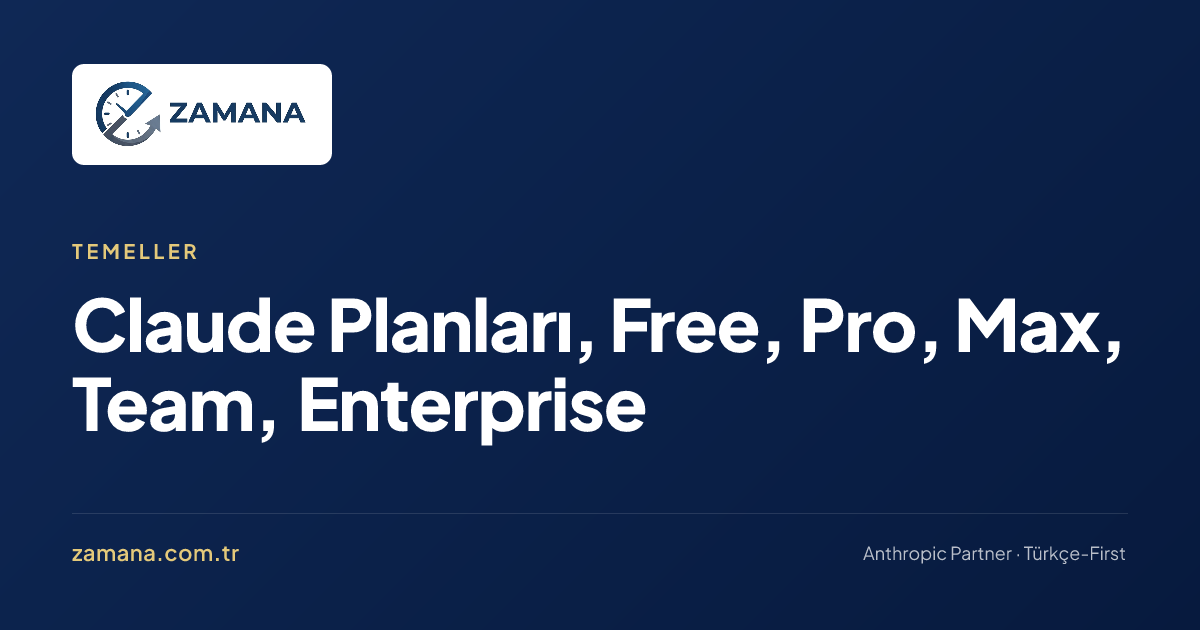
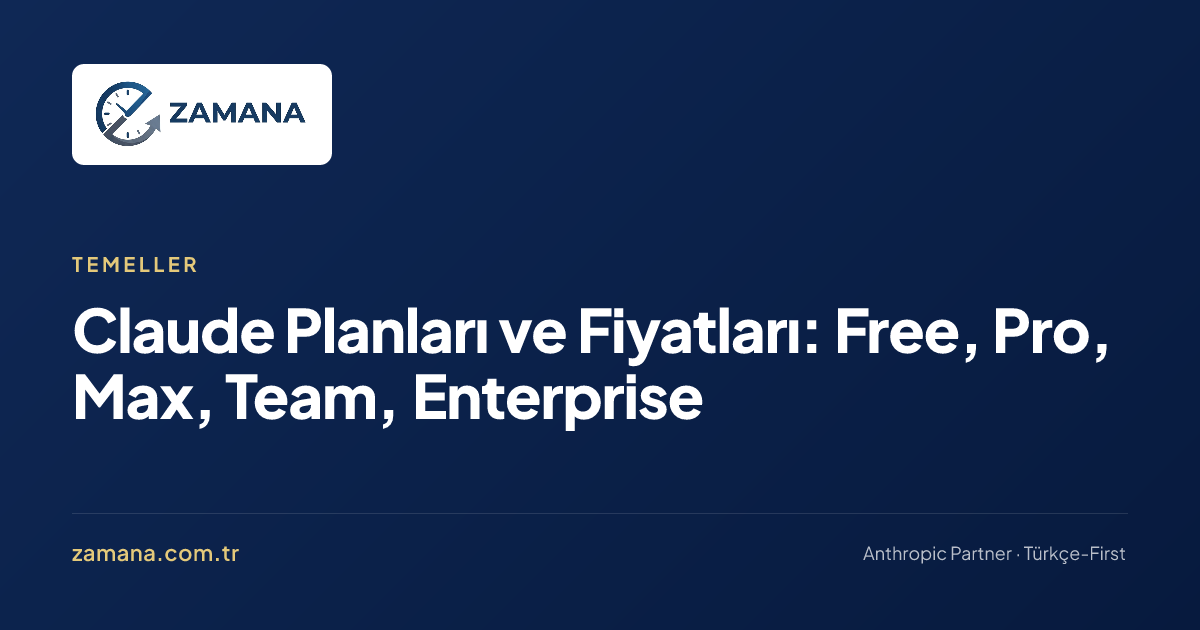
Add Türkiye'de Claude page and internal links to training pages
- New wiki page temeller/turkiyede-claude: access from Turkey, no local
  Anthropic office or official representative, buying plans directly,
  invoice/VAT/withholding and KVKK summaries, public sector note, what
  Zamana does and does not do (plans only, no API/AWS)
- Planlar page: title, seoTitle and description now target
  "paketler" and "fiyatlar" search variants (GSC opportunity)
- Contextual links from the 7 highest-impression wiki pages to
  /yapay-zeka-egitimi/ and program pages; wiki bottom CTA now links
  "kurumsal yapay zeka eğitimi"
- wiki-nav and llms.txt updated

Changed region(s): [[0.0617, 0.3921, 0.9558, 0.7238]]

diff --git a/src/data/wiki-nav.ts b/src/data/wiki-nav.ts
@@ -27,6 +27,7 @@ export const wikiNav: WikiNavSection[] = [
       { label: 'Genel Bakış', slug: 'temeller' },
       { label: 'Claude Nedir?', slug: 'temeller/claude-nedir' },
       { label: 'Anthropic ve Tarihçe', slug: 'temeller/anthropic-ve-tarihce' },
+      { label: "Türkiye'de Claude", slug: 'temeller/turkiyede-claude' },
       { label: 'Modeller', slug: 'temeller/modeller' },
       { label: 'Planlar', slug: 'temeller/planlar' },
       { label: 'Kullanım Limitleri', slug: 'temeller/kullanim-limitleri' },

diff --git a/src/content/wiki/temeller/turkiyede-claude.md b/src/content/wiki/temeller/turkiyede-claude.md
@@ -1,0 +1,87 @@
+---
+title: "Türkiye'de Claude: Erişim, Satın Alma ve Destek"
+seoTitle: "Claude Türkiye Temsilcisi Var mı? Ofis, Satın Alma"
+description: "Claude Türkiye'de kullanılabilir mi? Anthropic'in Türkiye ofisi ve resmi temsilcisi yok; satın alma doğrudan Anthropic'ten. Fatura, KDV ve KVKK özeti."
+tags:
+  - temeller
+  - turkiye
+  - satin-alma
+lastUpdated: "2026-10-06"
+---
+
+"Claude'un Türkiye temsilcisi kim?" sorusunun kısa cevabı: **yok**. Ama bu, Claude'u Türkiye'den kullanamayacağınız anlamına gelmiyor. Bu sayfa, Türkiye'deki bir şirket yöneticisinin ya da çalışanının sorduğu soruları sırayla cevaplıyor: erişim, satın alma, fatura, KVKK, kamu kurumları ve destek.
+
+> **Kısa cevap:** Anthropic'in Türkiye'de ofisi ve resmi temsilcisi ya da distribütörü yok (bu sayfanın yazıldığı 6 Ekim 2026 itibarıyla). Türkiye, Anthropic'in desteklenen ülkeler listesinde; claude.ai ve uygulamalar Türkiye'den kullanılabiliyor. Satın alma doğrudan Anthropic'ten yapılır, aracı yoktur. Zamana bir Anthropic Partner'ıdır ama temsilci, distribütör ya da bayi değildir ve abonelik satmaz.
+
+## Claude Türkiye'de kullanılabilir mi?
+
+Evet. Türkiye, Anthropic'in claude.ai için yayımladığı [desteklenen ülkeler](https://www.anthropic.com/supported-countries) listesinde. Web, masaüstü uygulaması (Windows ve macOS) ve iOS ile Android uygulamaları Türkiye'den çalışır. Ücretsiz planla başlayıp ücretli plana geçebilirsiniz; planlar için [Claude Planları](/wiki/temeller/planlar/) sayfasına bakın.
+
+Türkçe yazışma ve profesyonel metin üretiminde Claude'un performansı iyidir. Dört farklı dil kaydında (resmi yazışma, teknik, hukuki, yaratıcı) yan yana örnekler için [Claude Türkçe Performansı](/wiki/temeller/turkce-performansi/) sayfasına bakın. Arayüz dili seçeneklerinin güncel listesi sık değişebilir; bunu uygulamadaki ayarlardan kontrol edin.
+
+## Anthropic'in Türkiye ofisi ya da temsilcisi var mı?
+
+Hayır. Anthropic'in Türkiye'de ofisi yok, Türkiye'de resmi temsilcisi ya da distribütörü de yok. Yerel satış ya da yerel destek hattı bulunmuyor; hesap, fatura ve teknik sorular Anthropic'in kendi kanallarından (claude.ai ve yardım merkezi) çözülüyor. Şirketin genel yapısı için [Anthropic ve Claude'un Tarihçesi](/wiki/temeller/anthropic-ve-tarihce/) sayfasına bakabilirsiniz.
+
+**Bir uyarı:** "Claude Türkiye temsilcisiyiz" diyen biriyle karşılaşırsanız, Anthropic'in yetkilendirdiği resmi bir partner ya da yetkili kanal olup olmadığını yazılı sorun. Abonelik, "özel fiyat" ya da "kurumsal paket" adı altında ödeme istenen durumlarda, ödemenin Anthropic'e mi yoksa üçüncü bir tarafa mı gittiğine bakın.
+## Türkiye'den nasıl satın alınır?
+
+**Bireysel planlar (Pro, Max):** claude.ai üzerinden ya da mobil uygulamadan, kartla satın alınır. ABD fiyatları şöyledir: Pro 20 dolar, Max 5x 100 dolar, Max 20x 200 dolar (aylık). Mobil mağaza fiyatlarını bu sayfada yazmıyoruz, çünkü Anthropic'in bu konuda yayımlanmış bir fiyat sayfası yok; satın alma ekranında gördüğünüz tutar geçerlidir.
+
+**Team ve Enterprise:** Team için yönetici hesabıyla en az 2 koltuk gerekir ve plan self-serve açılır. Enterprise için self-serve alımda en az 20 koltuk, yıllık taahhüt ve kullanıma göre ek ücret söz konusudur; daha büyük ya da özel şartlı alımlarda Anthropic'in satış ekibiyle görüşülür. Ayrıntı için [Takım ve Admin](/wiki/temeller/takim-ve-admin/) ve [Planlar](/wiki/temeller/planlar/) sayfalarına bakın.
+
+**Ödeme:** Fiyatlar dolarla gösterilir. Türk lirasıyla ödeme ya da Türkiye'ye özel TL fiyat listesi bulamadık. Kartınızın yurt dışı e-ticarete açık olması gerekir; banka dolar tutarını kendi kuruyla liraya çevirir. Şirket aboneliklerinde çoğu ekip bu yüzden kurumsal kredi kartı kullanır. Kullanım kotaları için [Kullanım Limitleri](/wiki/temeller/kullanim-limitleri/) sayfasına bakın.
+
+## Fatura, KDV ve stopaj
+
+Anthropic Türkiye'de yerleşik değil; yani fatura yurt dışından gelir. Pratikte bilmeniz gerekenler:
+
+- **KDV:** Yurt dışından alınan hizmette KDV'yi alıcı, sorumlu sıfatıyla beyan eder (2 No'lu KDV beyannamesi, oran %20) ve genelde aynı dönemde indirim konusu yapar; net yük çoğu zaman sıfıra yakındır. Web ödemesinde Türkiye faturalama adresiyle %20 KDV'nin ayrıca eklendiğini bildiren ikincil kaynaklar var, ama Anthropic'in Türkiye'ye özel bir KDV sayfası yok. İlk faturanıza bakın ve mali müşavirinizle teyit edin.
+- **Stopaj:** Standart abonelikte stopaj genelde çıkmaz, ancak bulut hizmetleri için farklı sonuçlar veren özelgeler var. Claude aboneliğine özel bir özelge bulamadık. Bu nedenle kesin hüküm değil, mali müşavir kontrolü gerekir.
+
+Tam çerçeve için [Fatura, KDV ve Türkiye'de Muhasebeleştirme](/wiki/temeller/fatura-ve-kdv/) sayfasına bakın. Bu sayfa vergi danışmanlığı değildir.
+
+## KVKK ve veri
+
+Anthropic ABD merkezli olduğu için Claude'a kişisel veri girdiğinizde bu, KVKK anlamında yurt dışına aktarım sayılır. Kişisel veri girmiyorsanız (anonim iş metni, genel araştırma) bu konu sizi ilgilendirmez.
+
+Girecekseniz, pratikte Kurul'un ilan ettiği standart sözleşme yolu gündeme gelir; imzalar tamamlandıktan sonra 5 iş günü içinde Kurum'a bildirim gerekir. Çalışanlardan açık rıza almak, düzenli ve günlük Claude kullanımı için güvenli bir dayanak sayılmaz. Ayrıntılı anlatım ve Anthropic tarafında bilinmeyenler için [Gizlilik ve KVKK](/wiki/temeller/gizlilik-kvkk/) sayfasındaki "Yurt Dışına Aktarım" bölümüne bakın. Hukuki görüş yerine geçmez.
+
+## Kamu kurumları
+
+Kamu kurumları için tablo daha zor. Yurt dışındaki bir firmadan doğrudan abonelik almak çoğu kurum için satın alma mevzuatı açısından mümkün olmuyor ve şu an kamu için Anthropic'in yetkili bir Türkiye satış kanalı yok. Ayrıca kamu verisinde, Bilgi ve İletişim Güvenliği Tedbirleri Genelgesi (2019/12) gibi düzenlemelerin yurt dışı bulut kullanımına getirdiği kısıtlar devreye girebilir. Kapsamı kurumdan kuruma değişir; bilgi işlem ve hukuk biriminize danışın.
+
+Kamu kurumunda çalışıyorsanız durumunuzu bize yazın: [İletişim](/iletisim/). Bu alanda gelişme olursa bu sayfayı güncelleyeceğiz.
+
+## Zamana ne yapar, ne yapmaz?
+
+Zamana, Anthropic'in Partner'ıdır ve Türkiye'deki ekiplere şunlarda yardım eder:
+
+- Claude eğitimi: sizin işinize ve rollerinize göre, Türkçe
+- Kurulum ve CLAUDE.md gibi kurumsal uyarlama
+- Şirket içi kullanım politikası
+- KVKK açısından hangi verinin girilip girilmeyeceği konusunda rehberlik (hukuki görüş değildir)
+
+Zamana'nın **yapmadıkları:** Claude aboneliği satmaz, Anthropic adına fatura kesmez, Türkiye temsilcisi, distribütör ya da bayi değildir. Aboneliğinizi her zaman doğrudan Anthropic'ten alırsınız. Programlar için [Yapay Zeka Eğitimi](/yapay-zeka-egitimi/) ve [Programlar](/programlar/) sayfalarına bakın. Şirket içi kural yazımı için [Şirket İçi Politika](/wiki/temeller/sirket-ici-politika/) sayfası da yardımcı olur.
+
+## Sık sorulan sorular
+
+### Claude'u Türk lirasıyla alabilir miyim?
+
+Türk lirası fiyat ya da TL ödeme seçeneği bulamadık. Fiyatlar dolarla gösterilir; kartınız dolar üzerinden çekilir ve bankanız kendi kuruyla çevirir. Mobil uygulamadan alıyorsanız mağazanın gösterdiği tutar esastır.
+
+### Türkçe destek var mı?
+
+Claude'un kendisi Türkçe yazışmayı iyi yapar. Anthropic'in Türkçe müşteri destek hattı ya da yerel destek ekibi yok; destek yardım merkezi ve hesap üzerinden yürür. Şirket içi benimseme desteği için eğitim seçeneklerine bakabilirsiniz.
+
+### Şirket faturası alabilir miyim?
+
+Anthropic ödeme sonrası fatura düzenler ve hesap ayarlarından şirket bilgilerinizi ve (konuma göre sunulan) vergi numarası alanını girebilirsiniz. Faturanın Türkiye'deki muhasebe işlemesi için [Fatura ve KDV](/wiki/temeller/fatura-ve-kdv/) sayfasına, nihai kararı için mali müşavirinize başvurun.
+
+### Zamana Claude satıyor mu?
+
+Hayır. Zamana abonelik satmaz, temsilci ya da bayi değildir. Eğitim, kurulum ve kurumsal uyarlama desteği verir. Aboneliği Anthropic'ten, kendi hesabınızla alırsınız.
+
+### Türkiye'de "Claude temsilcisi" olduğunu söyleyen biri güvenilir mi?
+
+Anthropic'in Türkiye'de resmi temsilcisi yok. Böyle bir iddia duyarsanız, kişinin Anthropic'in resmi partner ya da yetkili kanalı olup olmadığını yazılı sorun ve ödemeyi hiçbir zaman Anthropic dışında bir tarafa yapmayın.

diff --git a/src/content/wiki/temeller/anthropic-ve-tarihce.md b/src/content/wiki/temeller/anthropic-ve-tarihce.md
@@ -5,7 +5,7 @@ tags:
   - temeller
   - anthropic
   - tarihce
-lastUpdated: "2026-10-05"
+lastUpdated: "2026-10-06"
 ---
 
 **Anthropic, Claude'u yapan şirkettir.** Kurumsal bir aracı sözleşmeye bağlamadan önce arkasındaki şirketi tanımak doğaldır. Bu sayfa Anthropic'i, kuruluşunu, değerlerini ve Claude'un model tarihçesini özetler.
@@ -114,7 +114,9 @@ Bilinen çizgiler:
 
 Anthropic'in **Türkiye'de doğrudan ofisi yoktur.** Lokalize satış, teknik destek veya hukuki temsilci bulunmaz. Türkiye, Claude.ai ve API için desteklenen ülkeler arasındadır; kullanıcılar Claude'u doğrudan claude.ai üzerinden kullanır. Türkçe iş bağlamında uyum, faturalandırma ve KVKK tarafı ayrıca yönetilmesi gereken konulardır.
 
-[Türkçe Performansı](/wiki/temeller/turkce-performansi/) sayfası dil tarafının kalitesini, [Gizlilik ve KVKK](/wiki/temeller/gizlilik-kvkk/) sayfası Türkiye'deki yasal duruma uyum tarafını anlatır.
+Yerel destek olmadığı için ekiplerin Claude'a geçişi çoğunlukla kendi başına kalır. Bu boşluğu Türkçe, iş odaklı ve sizin şirketinizin süreçleri üzerinden dolduran bir [şirket içi Claude eğitimi](/yapay-zeka-egitimi/) seçeneğimiz var.
+
+[Türkçe Performansı](/wiki/temeller/turkce-performansi/) sayfası dil tarafının kalitesini, [Gizlilik ve KVKK](/wiki/temeller/gizlilik-kvkk/) sayfası Türkiye'deki yasal duruma uyum tarafını anlatır. Erişim, satın alma, fatura ve destek sorularının tek sayfalık cevabı için [Türkiye'de Claude](/wiki/temeller/turkiyede-claude/) sayfasına bakın.
 
 ## Anthropic Neden Önemli?
 

diff --git a/src/content/wiki/temeller/planlar.md b/src/content/wiki/temeller/planlar.md
@@ -1,6 +1,7 @@
 ---
-title: Claude Planları, Free, Pro, Max, Team, Enterprise
-description: Claude'un beş planı Free, Pro, Max, Team ve Enterprise arasındaki farklar. İş kullanımı için hangi plan doğru, hangi durumda hangi plan önerilir.
+title: "Claude Planları ve Fiyatları: Free, Pro, Max, Team, Enterprise"
+seoTitle: "Claude Planları, Paketleri ve Fiyatları 2026"
+description: "Claude paketleri ve fiyatları 2026: Free, Pro, Max, Team ve Enterprise farkları, kullanım limitleri ve iş kullanımı için hangi planın doğru olduğu."
 tags:
   - temeller
   - planlar
@@ -184,6 +185,8 @@ Tipik bir şirketin planı zamanla doğal bir şekilde evrilir:
 - Enterprise'a geçiş gündeme gelir
 
 Plan seçimi ticari büyüklüğe ve kurumsal olgunluğa göre aşamalı olarak ilerler, hep birden büyük bir plana atlamak gereksizdir.
+
+> **Not:** Plan seçmek işin kolay kısmı. Zor kısım, ekibin o planı gerçekten verimli kullanması: kimin hangi işi Claude'a vereceği, neyin gizli kalacağı, çıktının nasıl kontrol edileceği. Bu bir lisans değil alışkanlık meselesidir. Ekibiniz için yapılandırılmış bir [kurumsal yapay zeka eğitimi](/yapay-zeka-egitimi/) arıyorsanız ya da doğrudan [kurumsal Claude programı](/programlar/kurumsal/) ayrıntısına bakmak isterseniz, ikisi de planı aldıktan sonraki adımı anlatır.
 
 ## KVKK ve Veri Konumu
 

diff --git a/src/content/wiki/temeller/claude-nedir.md b/src/content/wiki/temeller/claude-nedir.md
@@ -61,6 +61,8 @@ Aynı soruyu tersine çevirdiğimizde iş dünyası için değerli olan şeyler 
 - **Otomasyon katmanıdır.** Cowork ile komut çalıştırır, dosyalarınızı yönetir, dış araçları (Slack, Google Drive, CRM) çağırır. Kod yazmayı bilmeyen çalışanlar bile Claude üzerinden bu işleri yapabilir.
 - **Rol bilincine sahip bir meslektaştır.** Doğru yapılandırılmış bir [CLAUDE.md](/wiki/claude-md/nedir/) ile Claude, ekibinizin bir üyesi gibi davranır: şirketin kim olduğunu, sizin ne yaptığınızı, tonunuzu ve sınırlarınızı bilir.
 
+Bu listeyi okumak ile kendi işinizde çalıştırmak arasında bir boşluk var. Bunu tek başına, deneme yanılmayla da kapatabilirsiniz; kendi işiniz üzerinden ilerleyen bir [bireysel Claude eğitimi](/programlar/bireysel/) süreyi kısaltır. Yöneticiyseniz ve önce ne kadarını, nerede kullanacağınızı görmek istiyorsanız 3 saatlik [Yönetici AI Hazırlık](/programlar/ceo-brifing/) oturumu bunun için var.
+
 ## Claude Türkçeyi Ne Kadar İyi Anlar?
 
 Çok iyi. Claude profesyonel Türkçeyi doğru yazar, resmi ve samimi tonu ayırt eder, Türk iş kültürünün nüanslarını yakalar: "Sayın" ile "Merhaba" arasındaki farkı bilir, Türk Ticaret Kanunu'na atıfta bulunabilir, Türkçe özel isimleri doğru kullanır.

diff --git a/src/content/wiki/temeller/modeller.md b/src/content/wiki/temeller/modeller.md
@@ -155,6 +155,8 @@ Manuel Opus seçimini değerlendirmek için işaretler:
 
 Bu işaretler yoksa Sonnet'ten ayrılmayın.
 
+Ekip düzeyinde asıl risk, herkesin kendi kafasına göre model seçmesi ve gereksiz yere pahalı olanı kullanıp kotayı erkenden bitirmesidir. Bu kuralları bir kez birlikte oturtmak istiyorsanız [ekibinize Claude eğitimi](/programlar/kurumsal/) vermenin işe yaradığı yerlerden biri tam burasıdır.
+
 ## Çaba Seviyesi
 
 Claude'un bir işe ne kadar derin düşüneceğini görev başına ayarlayabilirsiniz: [Effort Control](/wiki/yetenekler/effort-control/). Varsayılan modele ve yüzeye göre değişir: API'de Fable 5.1 ve Sonnet 5.5 `high`, Opus 5.5 `medium`; Claude Code'da Fable 5.1 `high`, Opus 5.5 ve Sonnet 5.5 `medium`. Haiku 4.5 çaba ayarını desteklemez.

diff --git a/src/content/wiki/yetenekler/effort-control.md b/src/content/wiki/yetenekler/effort-control.md
@@ -63,6 +63,8 @@ claude.ai sohbet arayüzündeki varsayılan seviye doğrulanamadı; arayüzdeki 
 
 Bu, [Modeller](/wiki/temeller/modeller/) sayfasındaki "model değil prompt önemli" felsefesinin bir uzantısıdır: artık sadece *hangi model* değil, *ne kadar çaba* da elinizde bir kaldıraçtır.
 
+Bu ayarı bireysel olarak öğrenmek kolay, bir ekibe oturtmak daha zordur: hangi işte düşük, hangisinde yüksek çaba kullanılacağı ortak bir alışkanlık olmalı. [Kurumsal Claude programı](/programlar/kurumsal/) bu tür ekip kurallarını çalışanlarınızın kendi işleri üzerinden çalışır.
+
 ## İlgili Sayfalar
 
 - [Modeller](/wiki/temeller/modeller/): Güncel model ailesi ve hangi iş için hangi model

diff --git a/src/content/wiki/temeller/ilk-kurulum.md b/src/content/wiki/temeller/ilk-kurulum.md
@@ -475,6 +475,8 @@ Kurulum tamam. Artık Claude Desktop ve Cowork'ü kullanabiliyorsunuz. Ama şimd
 
 [**İlk 7 Gün Rehberi**](/wiki/temeller/ilk-7-gun/) → gün gün ne yapacağınızı, hangi hatalardan kaçınacağınızı, haftanın sonunda nerede olacağınızı anlatır.
 
+Kurulum tek başına verim getirmez; ilk haftada neyin işe yaradığını görmek çoğu zaman bir rehber ister. Kendi işiniz üzerinden, size özel ilerleyen bir [birebir Claude eğitimi](/programlar/bireysel/) isterseniz 3 haftalık programın kapsamına bakabilirsiniz.
+
 ---
 
 ## İlgili Sayfalar
